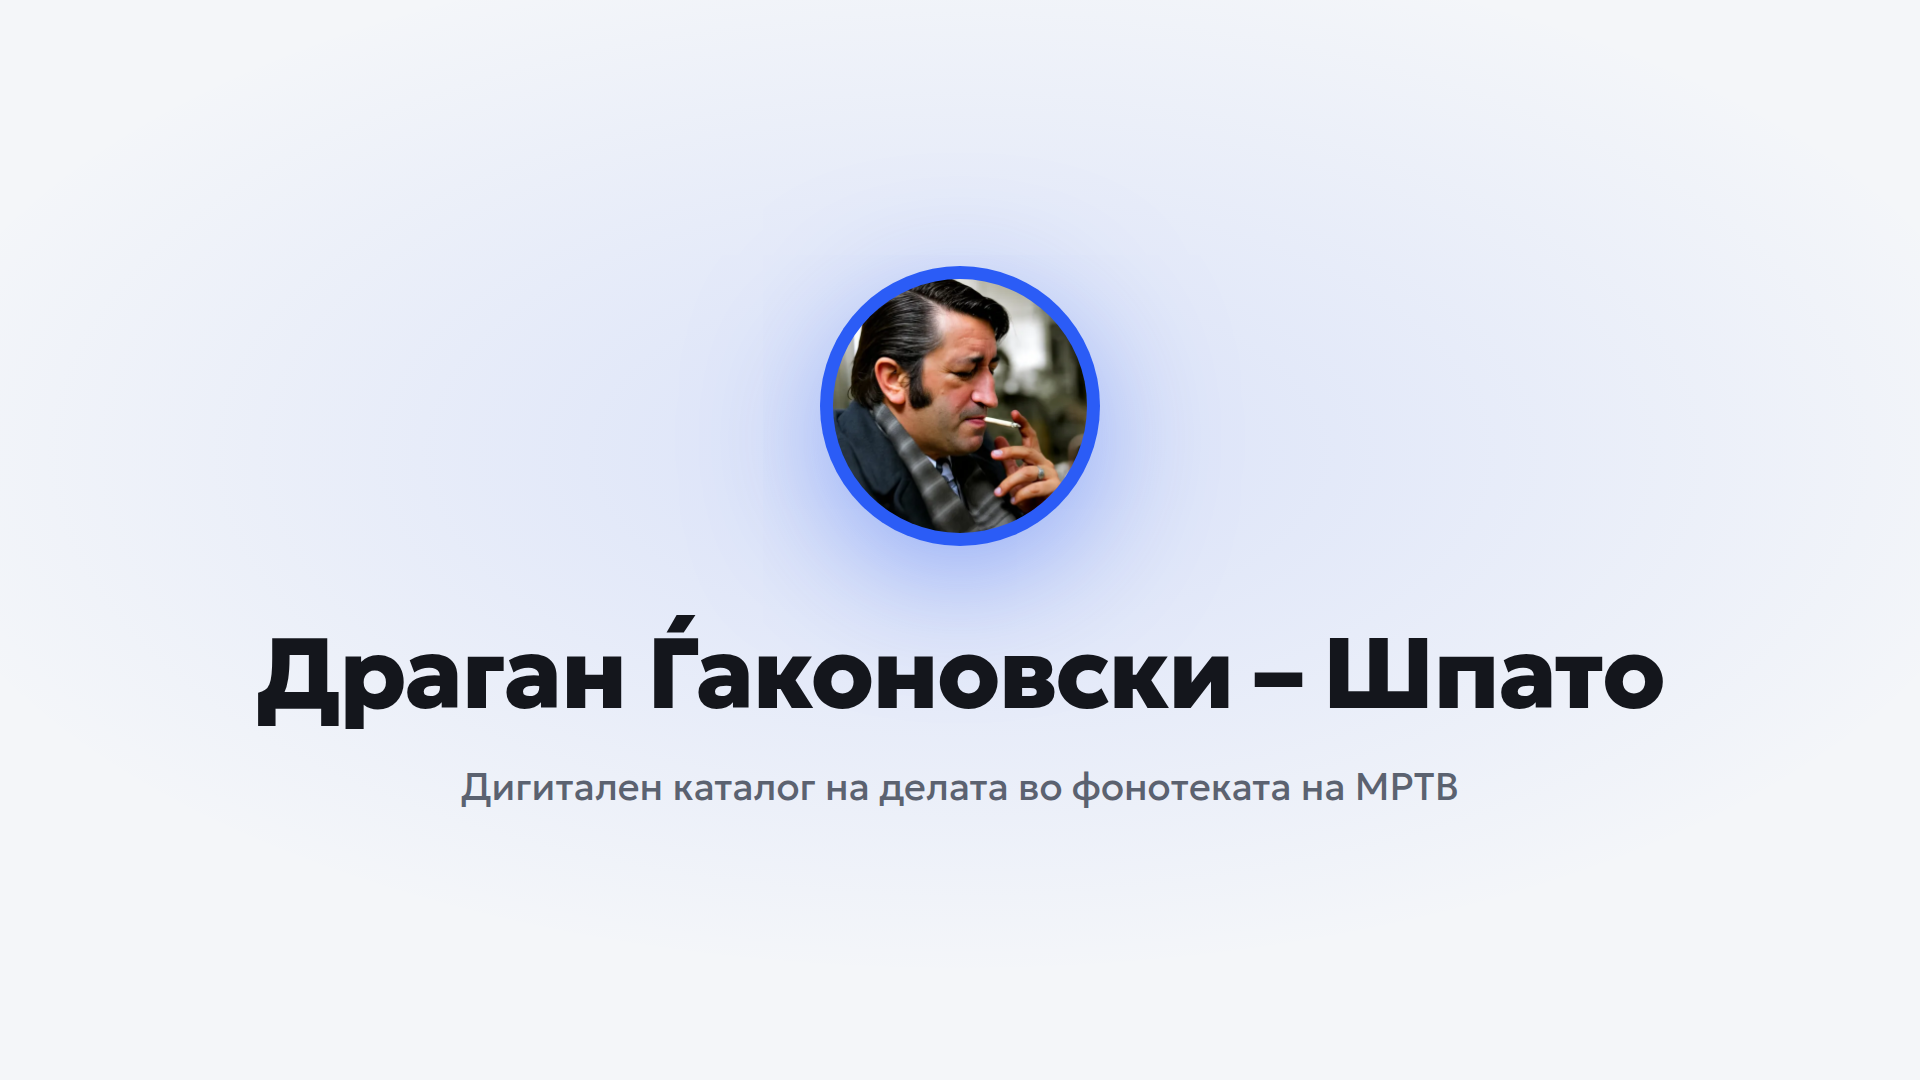
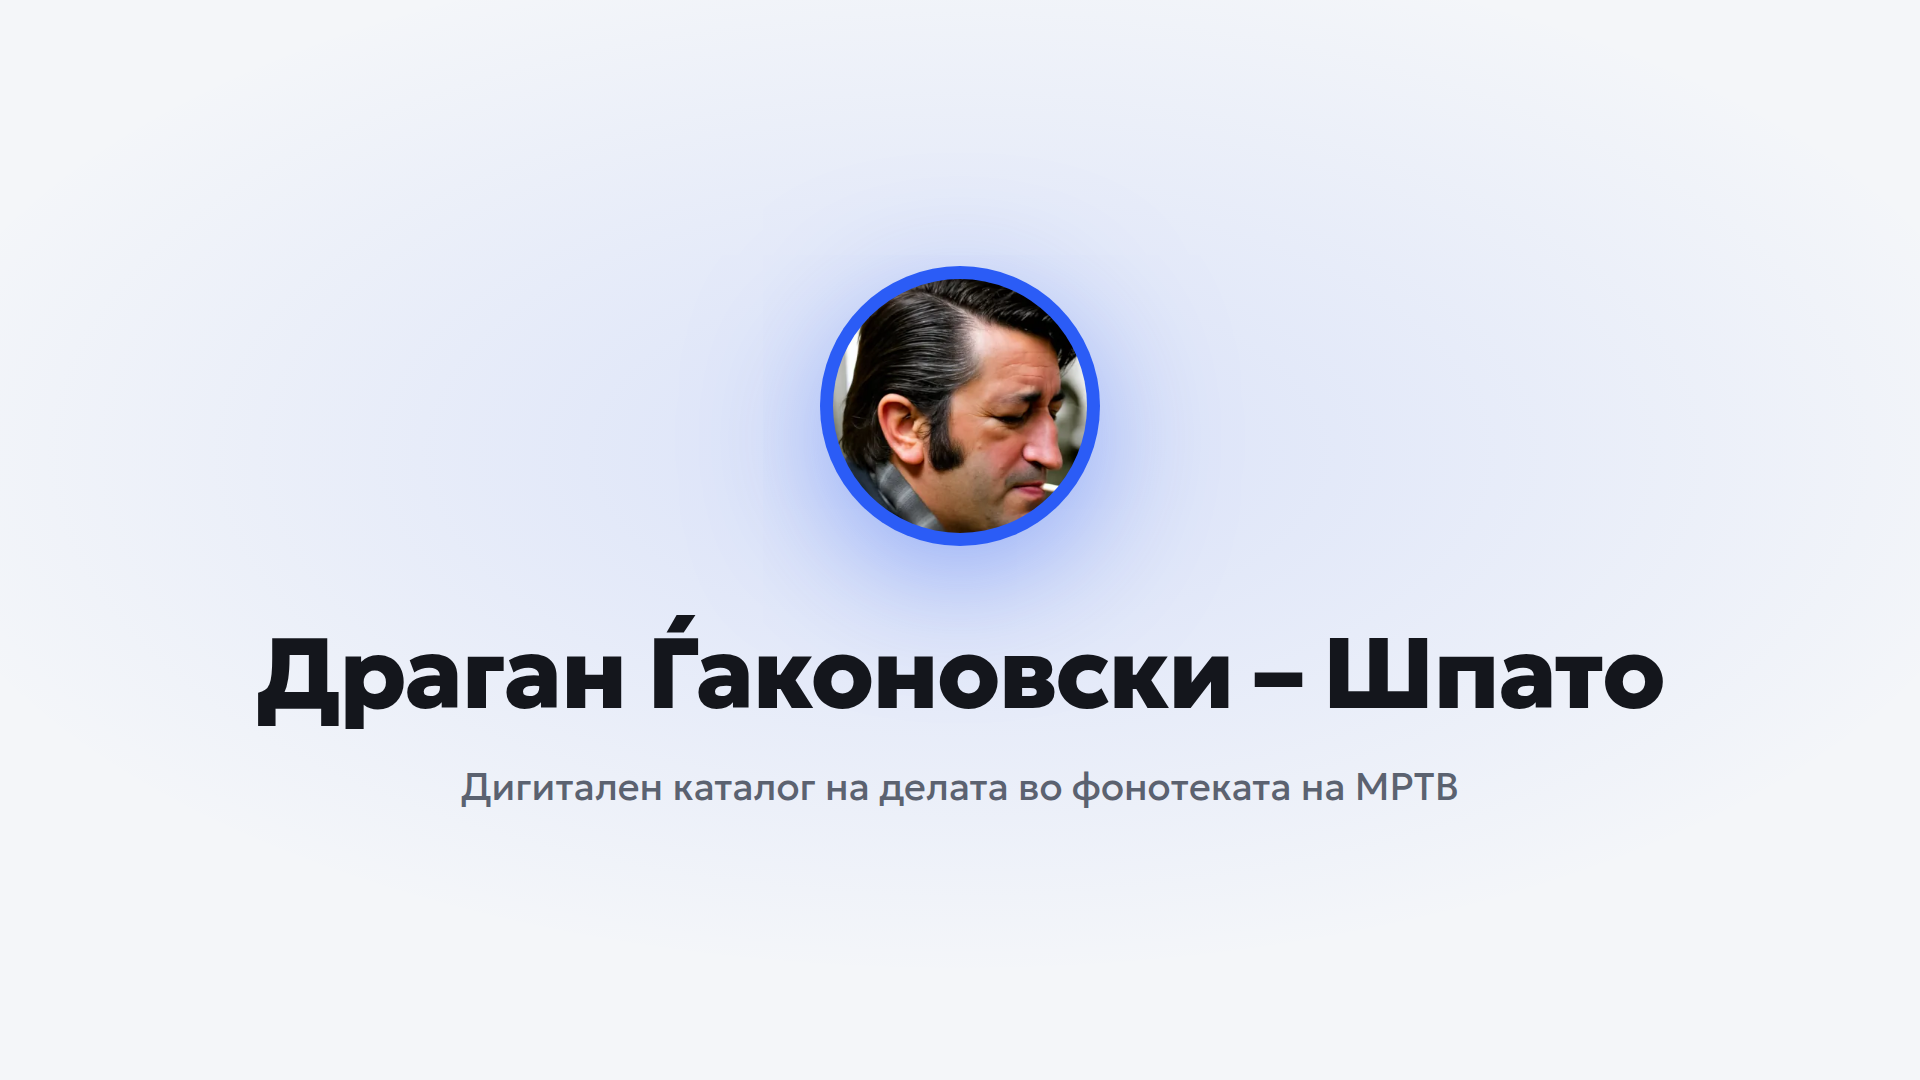
Zoom the cover portrait into the head and restore its ring
The portrait read small because the source is a wide shot: the face fills
only about 45% of the square. Scale 1.5x into the head so it fills the
circle.

That exposed a clipping trap. Chrome clips a rounded `overflow: hidden`
container to the border box's circle rather than the padding box's, so the
scaled portrait reached into the 13px accent ring and painted over it,
leaving only a blue crescent where the img did not quite reach. The ring
had appeared to work only because the unscaled img was smaller than that
clip. Clip the portrait in a paddingless wrapper, where both boxes
coincide, and drop the img's own border-radius, which once scaled about an
off-centre origin stops covering the crop box.

Changed region(s): [[0.4062, 0.2444, 0.5938, 0.4889]]

diff --git a/tools/cover.html b/tools/cover.html
@@ -49,12 +49,36 @@
       overflow: hidden;
       box-shadow: 0 32px 140px -14px color-mix(in srgb, var(--accent) 55%, transparent);
     }
-    .cover-mark img {
+    /* The portrait is clipped by its own 254px circle rather than by
+       .cover-mark. Chrome clips a rounded `overflow: hidden` container to the
+       border box's circle, not the padding box's, so a scaled portrait reaches
+       into the accent ring and paints over it — which is exactly what happened
+       when .cover-mark did the clipping. A clipper with no padding has an
+       unambiguous circle, since both boxes coincide. */
+    .cover-mark-crop {
+      display: block;
+      width: 100%;
+      height: 100%;
+      border-radius: 50%;
+      overflow: hidden;
+    }
+    .cover-mark-crop img {
       display: block;
       width: 100%;
       height: 100%;
       object-fit: cover;
-      border-radius: 50%;
+      /* No border-radius: it would clip the img to its own circle, which once
+         scaled about an off-centre origin stops covering the crop box and lets
+         the accent show through as a crescent.
+
+         The source is a wide shot — head, scarf, hand and cigarette all share
+         the square — so the face fills only ~45% of it and reads small in the
+         circle. Scale into the head: this maps the crop window x 24-365,
+         y 3-345 of 512 onto the circle, framing the head with some room. 1.5x
+         is well inside the source's resolution, since the portrait renders at
+         254px from a 512px file. */
+      transform: scale(1.5);
+      transform-origin: 14% 2%;
     }
 
     .cover-title {
@@ -78,7 +102,9 @@
 <body>
   <div class="cover">
     <span class="cover-mark" aria-hidden="true">
-      <img src="../assets/images/Dragan-Gjakonovski-Shpato-Icon.webp" alt="">
+      <span class="cover-mark-crop">
+        <img src="../assets/images/Dragan-Gjakonovski-Shpato-Icon.webp" alt="">
+      </span>
     </span>
     <h1 class="cover-title">Драган Ѓаконовски – Шпато</h1>
     <p class="cover-sub">Дигитален каталог на делата во фонотеката на МРТВ</p>
